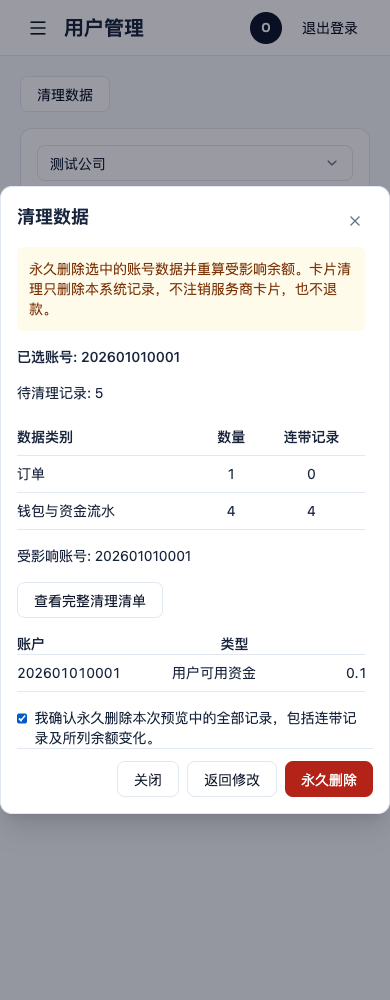
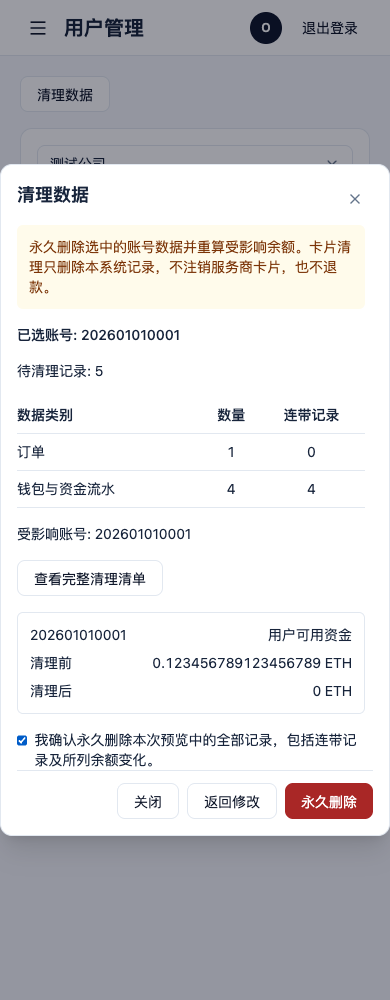
更新

Changed region(s): [[0.0, 0.155, 1.0, 0.837], [0.7077, 0.403, 0.8615, 0.496], [0.5538, 0.403, 0.6462, 0.527]]

diff --git a/resources/js/components/admin/DataCleanupDialog.tsx b/resources/js/components/admin/DataCleanupDialog.tsx
@@ -16,6 +16,7 @@ type Records = {
         asset: string | null;
         amount: string | null;
         related: boolean;
+        operation?: string;
     }[];
     page: number;
     lastPage: number;
@@ -25,6 +26,8 @@ type Preview = {
     status: string;
     summary: {
         total: number;
+        deleteCount?: number;
+        retainedCount?: number;
         categoryCounts: { category: string; count: number; related: number }[];
         affectedAccounts: { id: string; accountId: string; deleted: boolean }[];
         blockers: { code: string; accountId?: string; asset?: string }[];
@@ -259,8 +262,14 @@ export function DataCleanupDialog({
                                 {selected.map((u) => u.accountId).join('、')}
                             </p>
                             <p className="text-sm">
-                                {t('Records to remove')}: {preview.summary.total}
+                                {t('Records to remove')}:{' '}
+                                {preview.summary.deleteCount ?? preview.summary.total}
                             </p>
+                            {!!preview.summary.retainedCount && (
+                                <p className="text-sm">
+                                    {t('Identifiers to retain')}: {preview.summary.retainedCount}
+                                </p>
+                            )}
                             <table className="w-full text-sm">
                                 <thead>
                                     <tr className="border-b">
@@ -326,6 +335,8 @@ export function DataCleanupDialog({
                                                         </td>
                                                         <td className="p-2 break-all">
                                                             {r.recordId}
+                                                            {r.operation === 'RETIRE' &&
+                                                                ` (${t('Retain identifier')})`}
                                                         </td>
                                                         <td className="p-2">
                                                             {r.accountId || '—'}
@@ -374,43 +385,76 @@ export function DataCleanupDialog({
                                 </div>
                             )}
                             {!!preview.summary.balances.length && (
-                                <div className="overflow-x-auto">
-                                    <table className="w-full min-w-[640px] text-sm">
-                                        <thead>
-                                            <tr className="border-b">
-                                                <th className="text-left">{t('Account')}</th>
-                                                <th>{t('Type')}</th>
-                                                <th>{t('Before')}</th>
-                                                <th>{t('After')}</th>
-                                            </tr>
-                                        </thead>
-                                        <tbody>
-                                            {preview.summary.balances.map((b) => (
-                                                <tr key={b.id} className="border-b">
-                                                    <td className="py-2">
-                                                        {b.accountId || t('Company')}
-                                                    </td>
-                                                    <td>{t(b.accountType)}</td>
-                                                    <td className="text-center">
+                                <div>
+                                    <div className="space-y-2 sm:hidden">
+                                        {preview.summary.balances.map((b) => (
+                                            <div
+                                                key={b.id}
+                                                className="space-y-2 rounded-md border p-3 text-sm"
+                                            >
+                                                <div className="flex flex-wrap justify-between gap-1">
+                                                    <span>{b.accountId || t('Company')}</span>
+                                                    <span>{t(b.accountType)}</span>
+                                                </div>
+                                                <div className="flex justify-between gap-2">
+                                                    <span>{t('Before')}</span>
+                                                    <MoneyDisplay
+                                                        amount={b.before}
+                                                        asset={b.asset}
+                                                    />
+                                                </div>
+                                                <div className="flex justify-between gap-2">
+                                                    <span>{t('After')}</span>
+                                                    {b.removed ? (
+                                                        t('Removed')
+                                                    ) : (
                                                         <MoneyDisplay
-                                                            amount={b.before}
+                                                            amount={b.after}
                                                             asset={b.asset}
                                                         />
-                                                    </td>
-                                                    <td className="text-center">
-                                                        {b.removed ? (
-                                                            t('Removed')
-                                                        ) : (
+                                                    )}
+                                                </div>
+                                            </div>
+                                        ))}
+                                    </div>
+                                    <div className="hidden overflow-x-auto sm:block">
+                                        <table className="w-full min-w-[640px] text-sm">
+                                            <thead>
+                                                <tr className="border-b">
+                                                    <th className="text-left">{t('Account')}</th>
+                                                    <th>{t('Type')}</th>
+                                                    <th>{t('Before')}</th>
+                                                    <th>{t('After')}</th>
+                                                </tr>
+                                            </thead>
+                                            <tbody>
+                                                {preview.summary.balances.map((b) => (
+                                                    <tr key={b.id} className="border-b">
+                                                        <td className="py-2">
+                                                            {b.accountId || t('Company')}
+                                                        </td>
+                                                        <td>{t(b.accountType)}</td>
+                                                        <td className="text-center">
                                                             <MoneyDisplay
-                                                                amount={b.after}
+                                                                amount={b.before}
                                                                 asset={b.asset}
                                                             />
-                                                        )}
-                                                    </td>
-                                                </tr>
-                                            ))}
-                                        </tbody>
-                                    </table>
+                                                        </td>
+                                                        <td className="text-center">
+                                                            {b.removed ? (
+                                                                t('Removed')
+                                                            ) : (
+                                                                <MoneyDisplay
+                                                                    amount={b.after}
+                                                                    asset={b.asset}
+                                                                />
+                                                            )}
+                                                        </td>
+                                                    </tr>
+                                                ))}
+                                            </tbody>
+                                        </table>
+                                    </div>
                                 </div>
                             )}
                             {preview.summary.blockers.map((b, i) => (

diff --git a/resources/js/i18n/admin-catalog.ts b/resources/js/i18n/admin-catalog.ts
@@ -12,6 +12,8 @@ export const adminCatalog: Record<string, string> = {
     'Search accounts': '搜索账号',
     'Selected accounts': '已选账号',
     'Records to remove': '待清理记录',
+    'Identifiers to retain': '永久保留的标识记录',
+    'Retain identifier': '永久保留标识',
     'Data category': '数据类别',
     'Related records': '连带记录',
     'Affected accounts': '受影响账号',

diff --git a/tests/Feature/PhotonPayAccountsTest.php b/tests/Feature/PhotonPayAccountsTest.php
@@ -6,6 +6,7 @@ use App\Application\CardProduct\CreateCardProductAction;
 use App\Application\CardProduct\UpdateCardProductAction;
 use App\Application\CardProviderDirectory\PhotonPayAccounts;
 use App\Application\Cleanup\DataCleanup;
+use App\Application\User\CreatePlatformUserAction;
 use App\Domain\Admin\Models\AdminUser;
 use App\Domain\Card\Models\CardProviderEvent;
 use App\Domain\Card\Models\ProviderCardholder;
@@ -128,7 +129,8 @@ it('retains referenced cleanup images and respects the latest backup retention b
     $key = 'private-cleanup-test-image';
     $holder = accountHolderFixture($this, $product, ['documents' => ['front' => $key]]);
     Storage::disk('private')->put($key, 'offline image fixture');
-    $other = User::where('tenant_id', $holder->tenant_id)->where('id', '<>', $holder->user_id)->firstOrFail();
+    $other = app(CreatePlatformUserAction::class)->execute($holder->tenant_id, $this->owner,
+        ['email' => 'image-cleanup-other@example.test', 'display_name' => 'Other fixture', 'password' => 'secret123', 'request_id' => (string) Str::uuid()]);
     $second = $holder->replicate(['provider_cardholder_id', 'request_id']);
     $second->forceFill(['user_id' => $other->id, 'provider_cardholder_id' => 'CH-'.Str::uuid(), 'request_id' => (string) Str::uuid()])->save();
     $cleanup = app(DataCleanup::class);

diff --git a/app/Application/Cleanup/PlanDataCleanup.php b/app/Application/Cleanup/PlanDataCleanup.php
@@ -359,7 +359,10 @@ final class PlanDataCleanup
         ksort($counts);
         usort($balances, fn ($a, $b) => strcmp($a['id'], $b['id']));
         $affected = array_values(array_filter($data['users'], fn ($u) => in_array($u['id'], $affectedUsers, true)));
-        $summary = ['counts' => array_values($counts), 'total' => count($items), 'balances' => $balances, 'blockers' => $blockers,
+        $summary = ['counts' => array_values($counts), 'total' => count($items),
+            'deleteCount' => count(array_filter($items, fn ($item) => $item['operation'] === 'DELETE')),
+            'retainedCount' => count(array_filter($items, fn ($item) => $item['operation'] === 'RETIRE')),
+            'balances' => $balances, 'blockers' => $blockers,
             'affectedAccounts' => array_map(fn ($u) => ['id' => $u['id'], 'accountId' => $u['account_id'], 'deleted' => $account && in_array($u['id'], $users, true)], $affected)];
         $categories = [];
         foreach ($counts as $table => $count) {

diff --git a/docs/architecture/PLATFORM_DATA_CLEANUP.md b/docs/architecture/PLATFORM_DATA_CLEANUP.md
@@ -36,6 +36,8 @@
 
 私有图片不随数据库删除立即移除。七天后维护任务检查全部公司的剩余业务引用，确认无人引用才通过既有 ImageStorage 异步清除。共享或仍被引用的图片保留。
 
+同一图片被多个清理备份引用时，以最晚的七天保留期限为准；私有位置仅保存加密引用及 SHA-256 查重值。图片清除与本公司新引用写入互斥，不以备份文件修改时间覆盖已登记批次的保留期限。
+
 ## API 与部署
 
 平台路由前缀 `/platform/tenants/{tenant}/data-cleanup`：GET `accounts` 搜索账号；POST `preview`；GET `{batch}` 查询状态；GET `{batch}/records` 分页安全清单；POST `{batch}/execute` 确认执行。接口权限为平台 `users.read` + `users.cleanup`，不存在公司后台对应路由。状态 GET 与预览不执行删除。执行同步完成；界面显示忙碌状态，网络结果不明可通过状态 GET 恢复并使用原 UUID 重试。

diff --git a/docs/deployment/PRODUCTION_DEPLOYMENT.md b/docs/deployment/PRODUCTION_DEPLOYMENT.md
@@ -248,6 +248,7 @@ ps -eo pid,user,args | grep -E '[a]rtisan schedule:(run|work)'
 日志中子命令出现 PHP 绝对路径可能是框架展开当前解释器路径，不能单凭这个判定 cron
 仍硬编码路径。`fileinfo/exif is already loaded` 则是 CLI 扩展重复加载；根据 `php --ini`
 定位主配置和附加 ini，只保留一份加载配置。它与调度抢锁跳过是两个独立问题。
+
 ## 2026-10-11 指定账号清理部署
 
 参见 [清理数据契约](../architecture/PLATFORM_DATA_CLEANUP.md)。部署迁移
